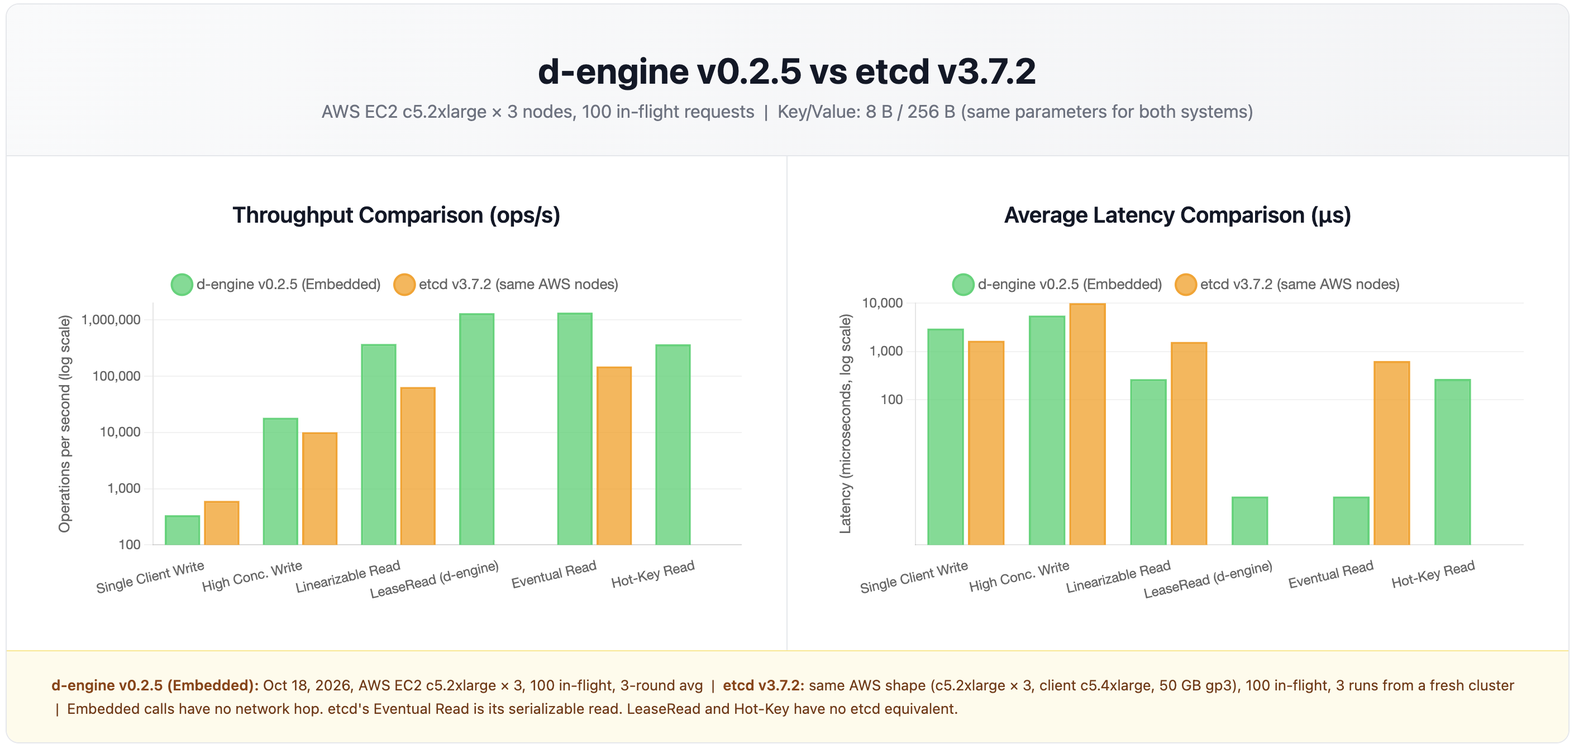
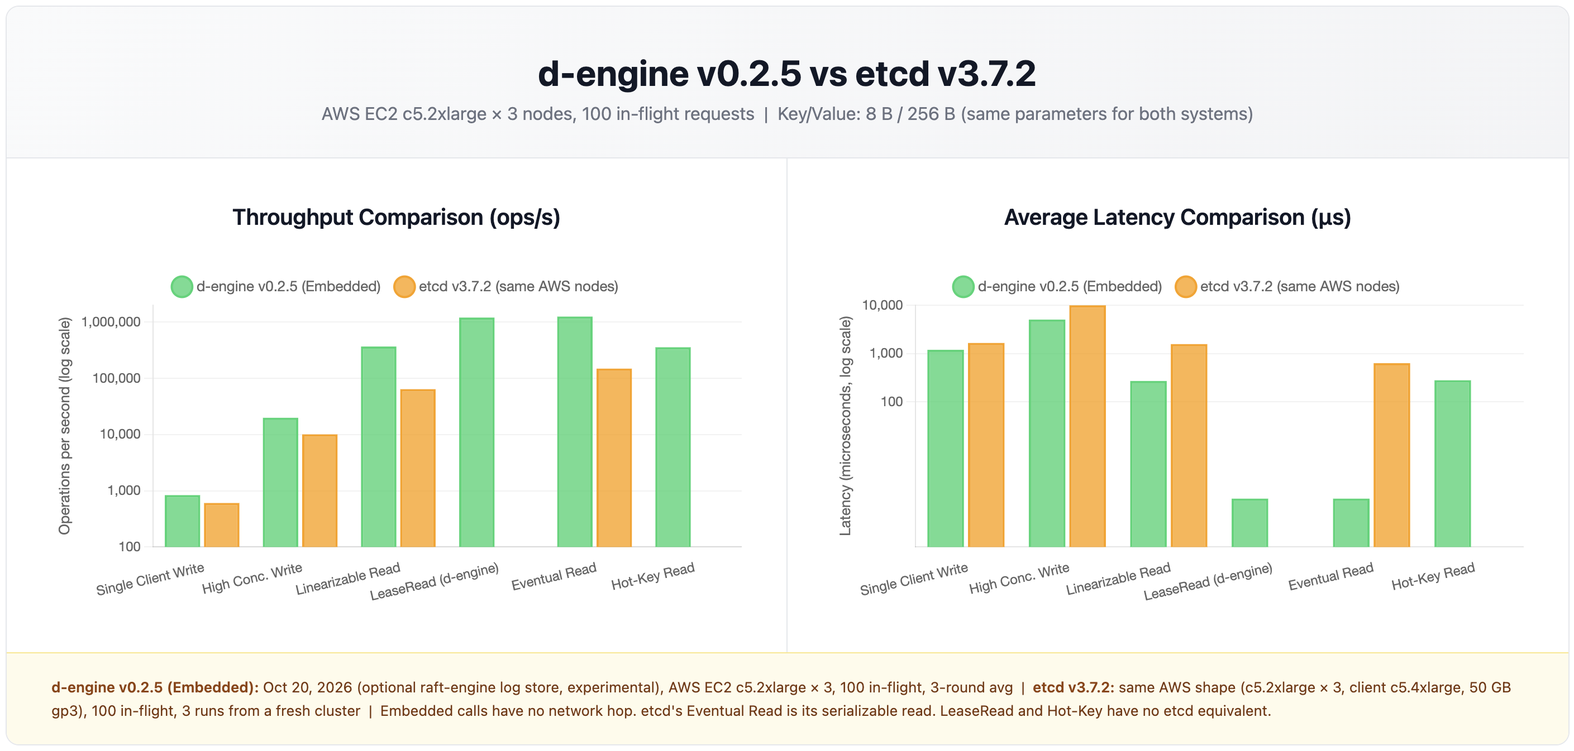
docs #460: Report d-engine's best numbers and add the raft-engine results to the v0.2.5 report

diff --git a/benches/reports/v0.2.5/bench_report_v0.2.5.md b/benches/reports/v0.2.5/bench_report_v0.2.5.md
@@ -2,21 +2,17 @@
 
 **Date**: October 18, 2026 | **Platform**: AWS us-east-1, 3 x c5.2xlarge nodes + 1 x c5.4xlarge client, 50 GB gp3 root volume (3,000 IOPS, 125 MB/s) | 3-round means | 8 B keys, 256 B values
 
-**Addendum, October 20, 2026:** embedded mode with the Raft log in raft-engine instead of the RocksDB WAL (experimental, #460): Summary point 6, Section 1b and [`bench_report_v0.2.5_raft_engine.md`](bench_report_v0.2.5_raft_engine.md).
+**Which numbers:** the d-engine v0.2.5 columns in Summary and Sections 1 and 2 are the best configuration measured (October 20, 2026): the Raft log in the optional raft-engine log store, an experimental setting that is not part of the v0.2.5 release. The default log store (RocksDB WAL, October 18) is in Sections 1b and 1c; full tables are in [`bench_report_v0.2.5_raft_engine.md`](bench_report_v0.2.5_raft_engine.md).
 
 Details: [`bench_report_v0.2.5_environment.md`](bench_report_v0.2.5_environment.md) (exact setup, commands, configuration) and [`bench_report_v0.2.5_details.md`](bench_report_v0.2.5_details.md) (every number, spreads, p99).
 
-> This report replaces the September 26, 2026 draft. That draft compared v0.2.4 at 100 clients with v0.2.5 at 1,000 clients, and compared d-engine with etcd 3.2.0 numbers measured on Google Cloud in 2017. Its latency and "vs etcd" conclusions did not hold and are withdrawn.
-
 ## Summary
 
-1. **v0.2.5 makes every commit wait for a physical `fdatasync` (RPO=0, #446), and on AWS EBS that costs one disk sync per commit.** At the same concurrency, single-client write falls from 4,393 to 337 ops/s (avg latency 0.228 to 2.962 ms) and 100-in-flight embedded write from 115,641 to 18,198 ops/s (0.864 to 5.494 ms). The added latency is close to one append `fdatasync` measured with fio on the same volume type (2.71 ms): 0.228 + 2.71 = 2.94 ms against 2.96 ms measured.
-2. **Reads are mostly unaffected or faster.** In embedded mode lease and eventual reads are 2.8x faster (ReadActor, #392); in standalone mode they gain 14.5% and 6.4%. Linearizable read is 15% lower in embedded mode and 3.3% lower in standalone mode (within noise; the v0.2.4 value is one round).
-3. **Against etcd v3.7.2 on the same AWS nodes (standalone mode), d-engine is ahead at concurrency and behind with one client.** 200 in-flight writes: 32,068 vs 17,143 ops/s (1.87x). Single-client write: 312 vs 605 ops/s (d-engine at 0.52x). Linearizable read at 200 in-flight: 0.91x; eventual read against etcd's serializable read: 1.48x. In embedded mode (in-process calls, no network hop) at 100 in-flight: write 1.81x, linearizable read 5.83x, eventual read 9.08x; single-client write is again behind, at 0.56x.
-4. **etcd's single-client write is faster because its WAL sync is cheaper: 1.05 ms per sync in etcd's own metrics, against about 2.7 ms for an appending write on this volume.** fio shows a preallocated overwrite costs 1.29 ms on average against 2.72 ms for an append, with about half the device writes per sync. Whether RocksDB's WAL behaves like the append case is a hypothesis we have not tested yet (see Limitations).
-5. **The cost depends on the disk.** On a local RAM disk (fsync about 0.05 ms) the same change adds only 35% to write latency. Numbers from RAM disks must not be used to judge the cost on EBS.
-
-6. **A log store that overwrites preallocated files makes the single-client write about twice as fast, but only 11% faster at 100 in-flight.** With the Raft log in raft-engine (embedded, 100 in-flight, October 20, new instances, control from October 18): single-client write 693 vs 337 ops/s (avg 1.485 vs 2.962 ms), 100-in-flight write 20,271 vs 18,198 ops/s (avg 4.93 vs 5.49 ms, p99 10.4 vs 6.2 ms). A commit then costs one `fdatasync` of 0.89 ms on average, close to the fio overwrite figure and well under the append figure (point 4); reads are unchanged. The control ran on another instance set, so these are indicative until a back-to-back run is done.
+1. **v0.2.5 makes every commit wait for a physical `fdatasync` (RPO=0, #446), and on AWS EBS that costs one disk sync per commit.** At the same concurrency, single-client write falls from 4,393 to 836 ops/s (avg latency 0.228 to 1.196 ms) and 100-in-flight embedded write from 115,641 to 19,860 ops/s (0.864 to 5.036 ms). The added latency is close to one `fdatasync` that overwrites preallocated files, 0.89 ms measured: 0.228 + 0.89 = 1.12 ms against 1.196 ms measured. With the default log store the sync costs an append `fdatasync` (2.71 ms with fio on the same volume type) and the single-client write is 337 ops/s (2.962 ms), Section 1b.
+2. **Reads are mostly unaffected or faster.** In embedded mode lease and eventual reads are 2.6x faster (ReadActor, #392); in standalone mode they gain 12.3% and 4.1%. Linearizable read is 17% lower in embedded mode and 4.0% lower in standalone mode (within noise; the v0.2.4 value is one round).
+3. **Against etcd v3.7.2 on the same AWS nodes, d-engine is ahead on writes and on eventual reads, in both modes.** Standalone (200 in-flight): writes 35,080 vs 17,143 ops/s (**2.05x**), single-client write 712 vs 605 ops/s (**1.18x**), eventual read vs etcd's serializable read 212,625 vs 147,426 ops/s (**1.44x**); linearizable read is 0.90x. Embedded (in-process calls, no network hop, 100 in-flight): writes 1.97x, single-client write 1.38x, linearizable read 5.74x, eventual read 8.43x. Every acknowledged write is synced to disk first, as in etcd. These are the numbers with the optional raft-engine log store, an experimental setting that is not part of the v0.2.5 release; with the default log store the single-client write is behind etcd (0.52x standalone, 0.56x embedded) and the 200-in-flight write is 1.87x.
+4. **With the RocksDB as storage, etcd's single-client write is faster because its WAL sync is cheaper: 1.05 ms per sync in etcd's own metrics, against about 2.7 ms for an appending write on this volume.** fio shows a preallocated overwrite costs 1.29 ms on average against 2.72 ms for an append, with about half the device writes per sync. Measured since: the RocksDB WAL sync averages 2.7 ms per commit on this volume (the append figure), against 0.9 ms for a log that overwrites preallocated files (Sections 1b and 1c).
+5. **The cost depends on the disk.** d-engine provides developer the flexibility to switch to any storage engine.
 
 ![d-engine v0.2.4 vs v0.2.5, Embedded Mode, 100 in-flight](d-engine_v0.2.5_vs_v0.2.4_embedded_mode.png)
 
@@ -28,76 +24,79 @@ Charts (log scale, same data as Sections 1 and 2): v0.2.4 vs v0.2.5 in embedded 
 
 ## 1. v0.2.5 vs v0.2.4, same concurrency
 
-Embedded mode, 100 in-flight requests (single client: 1). Cells are ops/s (average latency).
+Embedded mode, 100 in-flight requests (single client: 1). Cells are ops/s (average latency). v0.2.5 = the best configuration (see the note at the top).
 
 | Scenario               | v0.2.4             | v0.2.5               | Throughput |
 | ---------------------- | ------------------ | -------------------- | ---------- |
-| Single client write    | 4,393 (0.228 ms)   | 337 (2.962 ms)       | -92.3%     |
-| High concurrency write | 115,641 (0.864 ms) | 18,198 (5.494 ms)    | -84.3%     |
-| Linearizable read      | 441,087 (0.226 ms) | 373,820 (0.267 ms)   | -15.3%     |
-| Lease read             | 470,786 (0.212 ms) | 1,319,390 (0.001 ms) | +180.3%    |
-| Eventual read          | 478,101 (0.209 ms) | 1,350,684 (0.001 ms) | +182.5%    |
-| Hot-key read (10 keys) | 467,864 (0.213 ms) | 369,349 (0.270 ms)   | -21.1%     |
-
-### 1b. Embedded, Raft log in raft-engine (October 20, 2026, experimental)
-
-Ops/s (average latency). Control = the v0.2.5 column above (RocksDB WAL). Full tables, setup and caveats: `bench_report_v0.2.5_raft_engine.md`.
-
-| Scenario               | RocksDB WAL (Oct 18) | raft-engine (Oct 20)  | Throughput |
-| ---------------------- | -------------------- | --------------------- | ---------- |
-| Single client write    | 337 (2.962 ms)       | 693 (1.485 ms)        | +105.4%    |
-| High concurrency write | 18,198 (5.494 ms)    | 20,271 (4.932 ms)     | +11.4%     |
-| Linearizable read      | 373,820 (0.267 ms)   | 363,803 (0.274 ms)    | -2.7%      |
+| Single client write    | 4,393 (0.228 ms)   | 836 (1.196 ms)       | -81.0%     |
+| High concurrency write | 115,641 (0.864 ms) | 19,860 (5.036 ms)    | -82.8%     |
+| Linearizable read      | 441,087 (0.226 ms) | 368,068 (0.271 ms)   | -16.6%     |
+| Lease read             | 470,786 (0.212 ms) | 1,204,641 (0.001 ms) | +155.9%    |
+| Eventual read          | 478,101 (0.209 ms) | 1,253,650 (0.001 ms) | +162.2%    |
+| Hot-key read (10 keys) | 467,864 (0.213 ms) | 356,768 (0.280 ms)   | -23.7%     |
 
 Standalone mode, 200 in-flight (single client: 1). Starred cells use the one clean round of v0.2.4 (the cluster was not ready in rounds 1 and 2, so they logged timeouts).
 
 | Scenario               | v0.2.4              | v0.2.5             | Throughput |
 | ---------------------- | ------------------- | ------------------ | ---------- |
-| Single client write    | 2,042 (0.494 ms)    | 312 (3.204 ms)     | -84.7%     |
-| High concurrency write | 63,308* (3.155 ms)  | 32,068 (6.228 ms)  | -49.3%     |
-| Linearizable read      | 85,018* (2.349 ms)  | 82,215 (2.432 ms)  | -3.3%      |
-| Lease read             | 83,181 (2.403 ms)   | 95,219 (2.099 ms)  | +14.5%     |
-| Eventual read          | 204,337 (0.975 ms)  | 217,464 (0.916 ms) | +6.4%      |
-| Hot-key read (10 keys) | 104,149* (1.917 ms) | 96,553 (2.068 ms)  | -7.3%      |
+| Single client write    | 2,042 (0.494 ms)    | 712 (1.404 ms)     | -65.1%     |
+| High concurrency write | 63,308* (3.155 ms)  | 35,080 (5.696 ms)  | -44.6%     |
+| Linearizable read      | 85,018* (2.349 ms)  | 81,610 (2.448 ms)  | -4.0%      |
+| Lease read             | 83,181 (2.403 ms)   | 93,372 (2.139 ms)  | +12.3%     |
+| Eventual read          | 204,337 (0.975 ms)  | 212,625 (0.937 ms) | +4.1%      |
+| Hot-key read (10 keys) | 104,149* (1.917 ms) | 95,466 (2.093 ms)  | -8.3%      |
+
+### 1b. Log store effect, embedded: default RocksDB WAL vs raft-engine (experimental)
+
+Both columns are v0.2.5, ops/s (average latency). The default column is October 18 on another instance set; raft-engine is October 20.
+
+| Scenario               | RocksDB WAL, default | raft-engine          | Throughput |
+| ---------------------- | -------------------- | -------------------- | ---------- |
+| Single client write    | 337 (2.962 ms)       | 836 (1.196 ms)       | +147.6%    |
+| High concurrency write | 18,198 (5.494 ms)    | 19,860 (5.036 ms)    | +9.1%      |
+| Linearizable read      | 373,820 (0.267 ms)   | 368,068 (0.271 ms)   | -1.5%      |
+| Eventual read          | 1,350,684 (0.001 ms) | 1,253,650 (0.001 ms) | -7.2%      |
+
+### 1c. Log store effect, standalone (200 in-flight)
+
+| Scenario               | RocksDB WAL, default | raft-engine        | Throughput |
+| ---------------------- | -------------------- | ------------------ | ---------- |
+| Single client write    | 312 (3.204 ms)       | 712 (1.404 ms)     | +128.2%    |
+| High concurrency write | 32,068 (6.228 ms)    | 35,080 (5.696 ms)  | +9.4%      |
+| Linearizable read      | 82,215 (2.432 ms)    | 81,610 (2.448 ms)  | -0.7%      |
+| Eventual read          | 217,464 (0.916 ms)   | 212,625 (0.937 ms) | -2.2%      |
 
 ## 2. d-engine v0.2.5 vs etcd v3.7.2 on the same AWS nodes
 
-etcd ran in a separate session on new instances of the same shape, three times from a freshly wiped cluster, with etcd's documented `benchmark` commands (leader address instead of the removed `--target-leader`). Both d-engine modes are compared, because d-engine is used both ways. Standalone is the like-for-like pair: etcd is also reached through a network client.
+etcd ran in a separate session on new instances of the same shape, three times from a freshly wiped cluster, with etcd's documented `benchmark` commands (leader address instead of the removed `--target-leader`). Both d-engine modes are compared, because d-engine is used both ways. Standalone is the like-for-like pair: etcd is also reached through a network client. d-engine = the best configuration (see the note at the top).
 
 **Standalone** (200 in-flight; single client: 1)
 
 | Case                                                | etcd v3.7.2                         | d-engine v0.2.5 standalone           | d-engine / etcd |
 | --------------------------------------------------- | ----------------------------------- | ------------------------------------ | --------------- |
-| Write, 1 in-flight                                  | 605 ops/s, 1.65 ms, p99 5.07 ms     | 312 ops/s, 3.20 ms, p99 3.40 ms      | 0.52x           |
-| Write, 200 in-flight                                | 17,143 ops/s, 11.7 ms, p99 19.7 ms  | 32,068 ops/s, 6.23 ms, p99 7.43 ms   | 1.87x           |
-| Linearizable read, 200                              | 90,569 ops/s, 2.20 ms, p99 6.03 ms  | 82,215 ops/s, 2.43 ms, p99 4.69 ms   | 0.91x           |
-| Serializable (etcd) / eventual (d-engine) read, 200 | 147,426 ops/s, 1.23 ms, p99 6.40 ms | 217,464 ops/s, 0.916 ms, p99 1.71 ms | 1.48x           |
+| Write, 1 in-flight                                  | 605 ops/s, 1.65 ms, p99 5.07 ms     | 712 ops/s, 1.40 ms, p99 3.15 ms      | 1.18x           |
+| Write, 200 in-flight                                | 17,143 ops/s, 11.7 ms, p99 19.7 ms  | 35,080 ops/s, 5.70 ms, p99 12.28 ms  | 2.05x           |
+| Linearizable read, 200                              | 90,569 ops/s, 2.20 ms, p99 6.03 ms  | 81,610 ops/s, 2.45 ms, p99 4.58 ms   | 0.90x           |
+| Serializable (etcd) / eventual (d-engine) read, 200 | 147,426 ops/s, 1.23 ms, p99 6.40 ms | 212,625 ops/s, 0.937 ms, p99 1.85 ms | 1.44x           |
 
 **Embedded** (100 in-flight; single client: 1). The embedded bench ran at 100 in-flight, so etcd's 100 in-flight rows are the matched ones.
 
 | Case                                                | etcd v3.7.2                          | d-engine v0.2.5 embedded                | d-engine / etcd |
 | --------------------------------------------------- | ------------------------------------ | --------------------------------------- | --------------- |
-| Write, 1 in-flight                                  | 605 ops/s, 1.65 ms, p99 5.07 ms      | 337 ops/s, 2.96 ms, p99 3.15 ms         | 0.56x           |
-| Write, 100 in-flight                                | 10,064 ops/s, 9.93 ms, p99 17.0 ms   | 18,198 ops/s, 5.49 ms, p99 6.20 ms      | 1.81x           |
-| Linearizable read, 100                              | 64,071 ops/s, 1.57 ms, p99 3.60 ms   | 373,820 ops/s, 0.267 ms, p99 0.329 ms   | 5.83x           |
-| Serializable (etcd) / eventual (d-engine) read, 100 | 148,709 ops/s, 0.633 ms, p99 3.60 ms | 1,350,684 ops/s, 0.001 ms, p99 0.002 ms | 9.08x           |
+| Write, 1 in-flight                                  | 605 ops/s, 1.65 ms, p99 5.07 ms      | 836 ops/s, 1.20 ms, p99 3.00 ms         | 1.38x           |
+| Write, 100 in-flight                                | 10,064 ops/s, 9.93 ms, p99 17.0 ms   | 19,860 ops/s, 5.04 ms, p99 12.04 ms     | 1.97x           |
+| Linearizable read, 100                              | 64,071 ops/s, 1.57 ms, p99 3.60 ms   | 368,068 ops/s, 0.271 ms, p99 0.332 ms   | 5.74x           |
+| Serializable (etcd) / eventual (d-engine) read, 100 | 148,709 ops/s, 0.633 ms, p99 3.60 ms | 1,253,650 ops/s, 0.001 ms, p99 0.002 ms | 8.43x           |
 
-An embedded call pays no serialization and no network, so the read ratios measure that, not only the engine. The single-client write is the case where the network matters least (both sides wait for the disk sync), and there d-engine is behind etcd in both modes.
+An embedded call pays no serialization and no network, so the read ratios measure that, not only the engine. The single-client write is the case where the network matters least (both sides wait for the disk sync). With the default log store d-engine is behind etcd there (0.52x standalone, 0.56x embedded); its other default-store ratios are 1.87x (200 in-flight write), 0.91x (linearizable read) and 1.48x (eventual read) standalone, and 1.81x, 5.83x and 9.08x embedded.
 
-etcd's WAL `fdatasync` averaged 1.05 ms at 1 in-flight, 2.16 ms at 100, 2.37 ms at 200 and 3.24 ms at 1,000. Its other cases (1,000 in-flight, writes to all members, single-client reads) are in the details file. d-engine's lease read has no etcd equivalent (1,319,390 ops/s embedded, 95,219 standalone).
+etcd's WAL `fdatasync` averaged 1.05 ms at 1 in-flight, 2.16 ms at 100, 2.37 ms at 200 and 3.24 ms at 1,000. Its other cases (1,000 in-flight, writes to all members, single-client reads) are in the details file. d-engine's lease read has no etcd equivalent (1,204,641 ops/s embedded, 93,372 standalone).
 
 ## Limitations
 
-- Three rounds per case on one set of instances; d-engine (set A) and etcd (set B) ran on different instances of the same shape. Treat ratios as indicative, roughly plus or minus 20%.
+- Three rounds per case; d-engine v0.2.4 and the default log store (set A), d-engine's best numbers (sets E and F) and etcd (set B) ran on different instances of the same shape. Treat ratios as indicative, roughly plus or minus 20%.
 - v0.2.4 standalone write, linearizable read and hot-key use a single clean round. v0.2.4 embedded single-client write varies 17.7% between rounds.
 - d-engine was not run on AWS at 1,000 in-flight, nor for single-client reads, so etcd's 1,000 in-flight results (in the details file) have no d-engine pair. etcd's reads fetch one key and last only a second or two; d-engine's read benchmark reads many keys.
-- The fsync explanation in point 4 is a hypothesis. d-engine's raft log is a RocksDB WAL; its configuration does not set `recycle_log_file_num` and leaves WAL preallocation at the defaults. We have not measured how RocksDB writes the WAL. The two-mode fio result (overwrite is bimodal: about 0.9 ms or 2.7 ms) is unexplained.
-- The raft-engine numbers (point 6, Section 1b) come from a different instance set than the RocksDB control, from three rounds with a 42% spread on the single-client write, and from a forked build of raft-engine; the published crate's `Engine::sync()` does nothing and cannot be used.
+- The cost of the RocksDB WAL sync was measured (2.68 to 2.78 ms per commit, from the servers' own metrics); how RocksDB writes the WAL was not traced. Its configuration does not set `recycle_log_file_num` and leaves WAL preallocation at the defaults. The fio overwrite result is bimodal (about 0.9 ms or 2.7 ms); on the raft-engine runs 1.2% of the syncs took 1.6 to 3.2 ms, which matches the share of commits that coincide with a journal transaction, but this was not shown to be the same events.
+- The best numbers (Summary points 1 to 3, Sections 1, 1b, 1c, 2) come from the optional raft-engine log store on new instance sets, not set A or B, and from a forked build of raft-engine (the published crate's `Engine::sync()` does nothing). Only the standalone default-store control was repeated on the new set. The p99 of the 100 to 200 in-flight writes is higher than with the RocksDB WAL (about 12 vs 6 to 7 ms); the cause was not investigated.
 - Single AZ, no placement group, gp3 only. Other volume types (io2, local NVMe) were not measured.
-
-## Corrections to the September 26 draft
-
-- Latency changes of "+852%" and "7 to 13x worse" mixed 100 and 1,000 in-flight requests. At equal concurrency the embedded write is 6.4x slower, not 10x.
-- Standalone "vs etcd" columns used etcd 3.2.0 on Google Cloud (2017, disk undocumented) and are replaced by measurements on the same AWS nodes.
-- The `flush_policy` and `read_actor_*` configuration snippet is gone: v0.2.5 has no persistence policy, and the actual settings are in the environment file.
-- The comparison charts in this directory were redrawn from the October 18 measurements; the September 26 versions are gone.

diff --git a/benches/reports/v0.2.5/bench_report_v0.2.5_raft_engine.md b/benches/reports/v0.2.5/bench_report_v0.2.5_raft_engine.md
@@ -1,68 +1,82 @@
-# d-engine v0.2.5 Benchmark: raft-engine log store (embedded)
+# d-engine v0.2.5 Benchmark: raft-engine log store (embedded and standalone)
 
-Companion to `bench_report_v0.2.5.md`. Measured on **October 20, 2026** (leader output logged 07:24:06 to 07:27:20 UTC).
+Companion to `bench_report_v0.2.5.md`. Measured on **October 20, 2026** on two new instance sets (E and F).
 Experimental: the log store is a spike (#460), not part of a release. Values are 3-round means; spread = (max - min) / mean.
 
 ## 1. What was measured
 
 | Item | Value |
 |---|---|
-| Engine | `EmbeddedEngine<RaftEngineStorage, RocksDBStateMachine>`: the Raft log and the hard state are stored in raft-engine (a fork pinned at `e5ef995`, upstream master `097c499` with the `lz4-sys` pin relaxed); the state machine is RocksDB. Branch `spike/460-fdatasync` |
-| Control | `DefaultEmbeddedEngine`: Raft log in a RocksDB WAL, state machine RocksDB, `unified_db = false`. Numbers from `bench_report_v0.2.5.md` (October 18, set A) |
-| Instances | A new set (E): 3 x c5.2xlarge, 50 GB gp3 root volume (3,000 IOPS, 125 MB/s), us-east-1, same Terraform shapes as the other sets. Instance IDs were not recorded |
-| Bench | `embedded-bench --mode local --batch --key-size 8 --value-size 256 --sequential-keys put`, one process per node, leader output (node2 in all three rounds), 100 in-flight, 3 rounds, data wiped between rounds |
-| Log store config | `[raft_engine]` in each node config: 1 MiB segments (`target_file_size_mib = 1`), `purge_threshold_mib = 512`. `prefill_limit_mib = 512`: every start logged "created 768 files" in about 0.55 s, and raft-engine creates `prefill_limit / segment size x 1.5` files |
-| Commit | The branch was built on the instances from GitHub; the exact commit was not recorded (the branch head when pushed was `3e1ad66a`) |
+| Engine | The Raft log and the hard state are stored in raft-engine (a fork pinned at `e5ef995`: upstream master `097c499` with the `lz4-sys` pin relaxed); the state machine is RocksDB. Embedded: `EmbeddedEngine<RaftEngineStorage, RocksDBStateMachine>`; standalone: `three-nodes-standalone` built with `--features raft-engine` (`StandaloneEngine::run_custom`). Branch `spike/460-fdatasync` |
+| Control | Stock v0.2.5: Raft log in a RocksDB WAL, `unified_db = false`; the October 18 report (set A). For standalone there is also a RocksDB run on set F itself (Section 3) |
+| Instances | Same shapes as the other sets: 3 x c5.2xlarge, 50 GB gp3 root volume (3,000 IOPS, 125 MB/s), us-east-1. Set E: embedded, 07:24 to 07:27 UTC. Set F: embedded 14:20 to 14:23 UTC, standalone from 14:41 UTC. Instance IDs were not recorded |
+| Bench | Embedded: `embedded-bench --mode local --batch`, 100 in-flight, leader output (set F: node2, node3, node3). Standalone: `standalone-bench` on the client, 200 in-flight, single client 1. 8 B keys, 256 B values, data wiped between rounds |
+| Config | Snapshots disabled, as in the earlier reports. `[raft_engine]`: `target_file_size_mib = 1`, `purge_threshold_mib = 512`, `prefill_limit_mib = 512` (every start created 768 files, which is 512 x 1.5) |
 
-## 2. Results (leader, 3-round means)
+## 2. Embedded, 100 in-flight (set F; set E in the third column)
 
-Cells are ops/s (average latency, p99). "Control" is v0.2.5 with the RocksDB WAL from October 18 (a different instance set).
+Cells are ops/s (average latency). Control = October 18, RocksDB WAL.
 
-| Scenario | raft-engine | Spread | Control (RocksDB WAL) | Throughput vs control |
-|---|---|---|---|---|
-| Single client write | 693 (1.485 ms, p99 11.71 ms) | 42.0% | 337 (2.962 ms, p99 3.15 ms) | +105.4% |
-| High concurrency write | 20,271 (4.932 ms, p99 10.37 ms) | 1.2% | 18,198 (5.494 ms, p99 6.20 ms) | +11.4% |
-| Linearizable read | 363,803 (0.274 ms, p99 0.343 ms) | 7.2% | 373,820 (0.267 ms) | -2.7% |
-| Lease read | 1,213,826 (0.001 ms) | 3.5% | 1,319,390 (0.001 ms) | -8.0% |
-| Eventual read | 1,236,197 (0.001 ms) | 2.7% | 1,350,684 (0.001 ms) | -8.5% |
-| Hot-key read (10 keys) | 360,246 (0.277 ms, p99 0.347 ms) | 2.0% | 369,349 (0.270 ms) | -2.5% |
+| Scenario | raft-engine, set F | Spread | raft-engine, set E | Control | Set F vs control |
+|---|---|---|---|---|---|
+| Single client write | 836 (1.196 ms, p99 3.00 ms) | 2.8% | 693 (1.485 ms) | 337 (2.962 ms, p99 3.15) | +147.6% |
+| High concurrency write | 19,860 (5.036 ms, p99 12.04 ms) | 4.8% | 20,271 (4.932 ms) | 18,198 (5.494 ms, p99 6.20) | +9.1% |
+| Linearizable read | 368,068 (0.271 ms) | 4.0% | 363,803 | 373,820 | -1.5% |
+| Lease read | 1,204,641 | 5.9% | 1,213,826 | 1,319,390 | -8.7% |
+| Eventual read | 1,253,650 | 4.4% | 1,236,197 | 1,350,684 | -7.2% |
+| Hot-key read | 356,768 (0.280 ms) | 6.6% | 360,246 | 369,349 | -3.4% |
 
-Against v0.2.4, which does not sync (October 18): single client write -84.2%, high concurrency write -82.5%.
-Check (throughput x average latency): 1.0 for the single client, 100.0 for high concurrency, 99.8 and 99.7 for the
-two reads that use 100 in-flight; lease and eventual reads are client-limited at about 1.2, as in the main report.
+Per round on set F, single client write: 850 / 830 / 827 ops/s; high concurrency write: 20,075 / 20,232 / 19,273 ops/s.
+Throughput x latency is 1.0 and 100.0 for the writes, 99.7 for the reads that use 100 in-flight.
 
-Per round (ops/s, average ms, p99 ms):
+## 3. Standalone, 200 in-flight (set F)
 
-| Round | Single client write | High concurrency write |
-|---|---|---|
-| 1 | 649, 1.540, 16.07 | 20,423, 4.895, 9.54 |
-| 2 | 570, 1.754, 16.12 | 20,203, 4.948, 9.47 |
-| 3 | 861, 1.160, 2.93 | 20,188, 4.951, 12.10 |
+"Same-set RocksDB" is a standalone run on set F whose build did not get the raft-engine feature, so it ran stock RocksDB.
 
-## 3. Evidence that a commit waits for a physical sync
+| Scenario | raft-engine | Spread | Oct 18 RocksDB | Same-set RocksDB | vs Oct 18 |
+|---|---|---|---|---|---|
+| Single client write | 712 (1.404 ms, p99 3.15 ms) | 1.5% | 312 (3.204 ms, p99 3.40) | 299 (3.343 ms) | +128.2% |
+| High concurrency write | 35,080 (5.696 ms, p99 12.28 ms) | 0.4% | 32,068 (6.228 ms, p99 7.43) | 31,818 (6.277 ms) | +9.4% |
+| Linearizable read | 81,610 (2.448 ms) | 5.5% | 82,215 | 81,094 | -0.7% |
+| Lease read | 93,372 | 5.8% | 95,219 | 93,077 | -1.9% |
+| Eventual read | 212,625 (0.937 ms) | 1.1% | 217,464 | 212,492 | -2.2% |
+| Hot-key read | 95,466 | 5.6% | 96,553 | 93,985 | -1.1% |
 
-An earlier run on October 20 (another instance set) showed 0.21 ms commits because the published raft-engine 0.4.2 has a
-no-op `Engine::sync()`; that run is discarded. On this set the check `verify-fsync.sh` (20,000 single-client writes, 07:11 to
-about 07:16 UTC, results `reports/fsync-verify-20261020-151149/` in d-engine-terraform) gave, on the leader: average `flush()`
-0.894 ms (17,893 ms over 20,001 calls), 20,022 `fdatasync` calls under `strace` (11 `fsync`, 9 `fallocate`), 288 ext4 journal
-transactions for about 20,000 commits, single-client write 891 ops/s at 1.122 ms. Followers: 0.897 and 1.038 ms per flush.
+Throughput x latency is 1.0 for the single client and 199.2 to 199.8 for the rest. No timeouts or failed requests in any round.
+The two RocksDB runs differ by 0.3% to 4.1%, so the October 18 control is a fair reference for the standalone writes.
 
-## 4. Reading
+## 4. Against etcd v3.7.2 (October 18, instance set B)
 
-- The single-client write is about twice as fast as with the RocksDB WAL, and the average flush (0.89 ms) is at the fio
-  overwrite floor on this volume (0.78 to 0.92 ms) rather than the append cost (2.71 ms). This supports the #460 hypothesis.
-- At 100 in-flight the gain is only 11.4% in throughput and 10% in average latency, and p99 is higher (10.4 vs 6.2 ms). The
-  sync is not the only limit at that concurrency; the cause was not investigated (flush time under load was not recorded).
-- Tail latency is high where it should not be: single-client p99 was 16 ms in rounds 1 and 2 (2.9 ms in round 3), which gives the
-  42% spread. Hypotheses, not tested: background write-back of the roughly 768 MiB of zero-filled files created at start
-  competes for the 125 MB/s volume during the first scenario; 1 MiB segment rotation stalls. A round (restart, 5 s settle, six scenarios) takes about 70 s.
-- Reads match the control within the usual spread of different instance sets; the log store is not on the read path.
+| Case | etcd | Ratio with raft-engine | Ratio with the RocksDB WAL |
+|---|---|---|---|
+| Standalone write, 1 in-flight | 605 ops/s | **1.18x** | 0.52x |
+| Standalone write, 200 in-flight | 17,143 ops/s | **2.05x** | 1.87x |
+| Standalone linearizable read | 90,569 ops/s | 0.90x | 0.91x |
+| Standalone eventual vs etcd serializable read | 147,426 ops/s | 1.44x | 1.48x |
+| Embedded write, 1 in-flight | 605 ops/s | 1.38x | 0.56x |
+| Embedded write, 100 in-flight | 10,064 ops/s | 1.97x | 1.81x |
 
-## 5. Limits of this comparison
+## 5. Evidence that a commit waits for a physical sync
 
-- The control is from another instance set and another day (October 18). Instance sets differ in disk behaviour, so a back-to-back
-  RocksDB run on set E is still needed before any ratio above is quoted outside this directory.
-- One set of instances, three rounds, leader only; the single-client write has a 42% spread.
-- Not measured: standalone mode with raft-engine, 1,000 in-flight, the recycle pool state after a run, power-loss behaviour, the
-  effect of 1 MiB vs larger segments, lz4 compression (disabled in the adapter).
-- The fork is a stop-gap: it exists because the published crate has a no-op `Engine::sync()` and upstream pins `lz4-sys` to `=1.9.5`.
+- Standalone, set F: each server's `core_raft_fsync_duration_ms` averaged 0.867 to 0.948 ms in all nine node-rounds (about 12,600
+  flushes each), against 2.68 to 2.78 ms for the RocksDB run on the same set. The fio overwrite floor is 0.78 to 0.92 ms.
+- Embedded, set E (`verify-fsync.sh`, 07:11 UTC, 20,000 single-client writes): average `flush()` 0.894 ms, 20,022 `fdatasync` calls for
+  20,001 commits, 288 journal transactions (1.4% of the commits). On the leader 95.3% of the flushes took 0.8 to 1.6 ms and 1.2% took 1.6
+  to 3.2 ms, which matches the journal share; whether these are the same events was not checked. One follower had 0.4% of its flushes
+  above 25 ms (up to 102 ms), not explained. For contrast, the run with the no-op sync made 19 `fdatasync` calls per node.
+- Embedded, set F: no separate run. The single client write averages 1.196 ms, above the fastest sync seen on this disk (0.775 ms).
+- An earlier run on October 20 showed 0.21 ms commits because the published raft-engine 0.4.2 has a no-op `Engine::sync()`; it is discarded.
+
+## 6. Reading
+
+- A sync that overwrites preallocated files makes the single client write 2.3 to 2.5 times faster in both modes. At 100 to 200 in-flight
+  it is 9% faster and the p99 is higher (12 vs 6 to 7 ms). The sync is not the only limit at that concurrency; not investigated.
+- Against etcd, the single client write goes from behind (0.52x, 0.56x) to ahead (1.18x, 1.38x). Reads do not depend on the log store.
+
+## 7. Limits
+
+- The control is from another instance set (A), except the standalone same-set run. Embedded reads differ by 3% to 9% between sets.
+- Snapshots are off, so the log is never purged and the recycle pool is consumed during a run (about 33 files per run against 768).
+- The standalone raft-engine path starts the state machine through `run_custom`, which does not attach the TTL lease manager; no
+  benchmark uses TTL. The fork is a stop-gap for a no-op `Engine::sync()` in the published crate and a pinned `lz4-sys`.
+- Not measured: 1,000 in-flight, a RocksDB embedded run on set F, the cause of the higher p99, power-loss behaviour, lz4 compression (off).

diff --git a/benches/reports/v0.2.5/bench_report_v0.2.5_environment.md b/benches/reports/v0.2.5/bench_report_v0.2.5_environment.md
@@ -1,7 +1,7 @@
 # d-engine v0.2.5 Benchmark: Test Environment
 
 Companion to `bench_report_v0.2.5.md`. Everything here was measured on **October 18, 2026**, except the raft-engine run of
-**October 20, 2026** (a new instance set E, same shapes), described in `bench_report_v0.2.5_raft_engine.md`.
+**October 20, 2026** (new instance sets E and F, same shapes), described in `bench_report_v0.2.5_raft_engine.md`.
 
 ## 1. Instance sets
 
